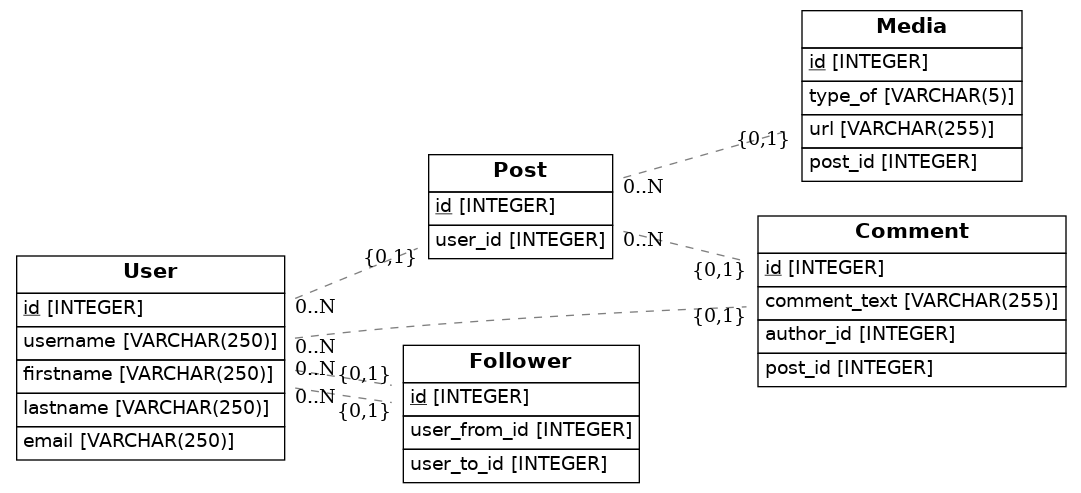
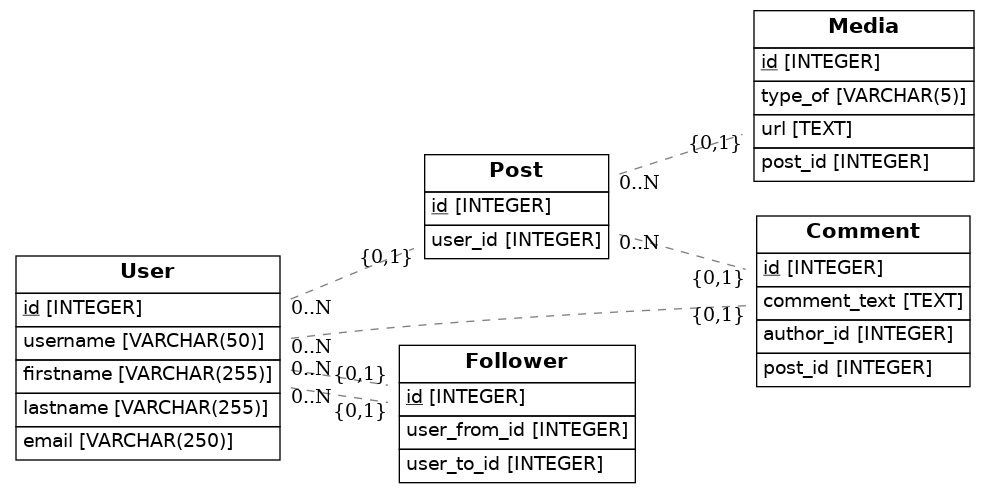
addign Text to commet

diff --git a/src/models.py b/src/models.py
@@ -1,6 +1,6 @@
 import os
 import sys
-from sqlalchemy import Column, ForeignKey, Integer, String, Enum
+from sqlalchemy import Column, ForeignKey, Integer, String, Enum, Text
 from sqlalchemy.ext.declarative import declarative_base
 from sqlalchemy.orm import relationship
 from sqlalchemy import create_engine
@@ -12,9 +12,9 @@ Base = declarative_base()
 class User(Base):
     __tablename__ = 'User'
     id = Column(Integer, primary_key=True)
-    username = Column(String(250))
-    firstname = Column(String(250))
-    lastname =  Column(String(250))
+    username = Column(String(50))
+    firstname = Column(String(255))
+    lastname =  Column(String(255))
     email = Column(String(250), nullable=False)
 
 class Post(Base):
@@ -25,7 +25,7 @@ class Post(Base):
 class Comment(Base):
     __tablename__='Comment'
     id = Column(Integer, primary_key=True)
-    comment_text = Column(String(255))
+    comment_text = Column(Text())
     author_id = Column(Integer,ForeignKey('User.id'))
     post_id = Column(Integer, ForeignKey('Post.id'))
 
@@ -33,7 +33,7 @@ class Media(Base):
     __tablename__='Media'
     id = Column(Integer,primary_key=True)
     type_of = Column(Enum("video","image", "audio"))
-    url = Column(String(255))
+    url = Column(Text())
     post_id = Column(Integer, ForeignKey('Post.id'))
 
 class Follower(Base):
